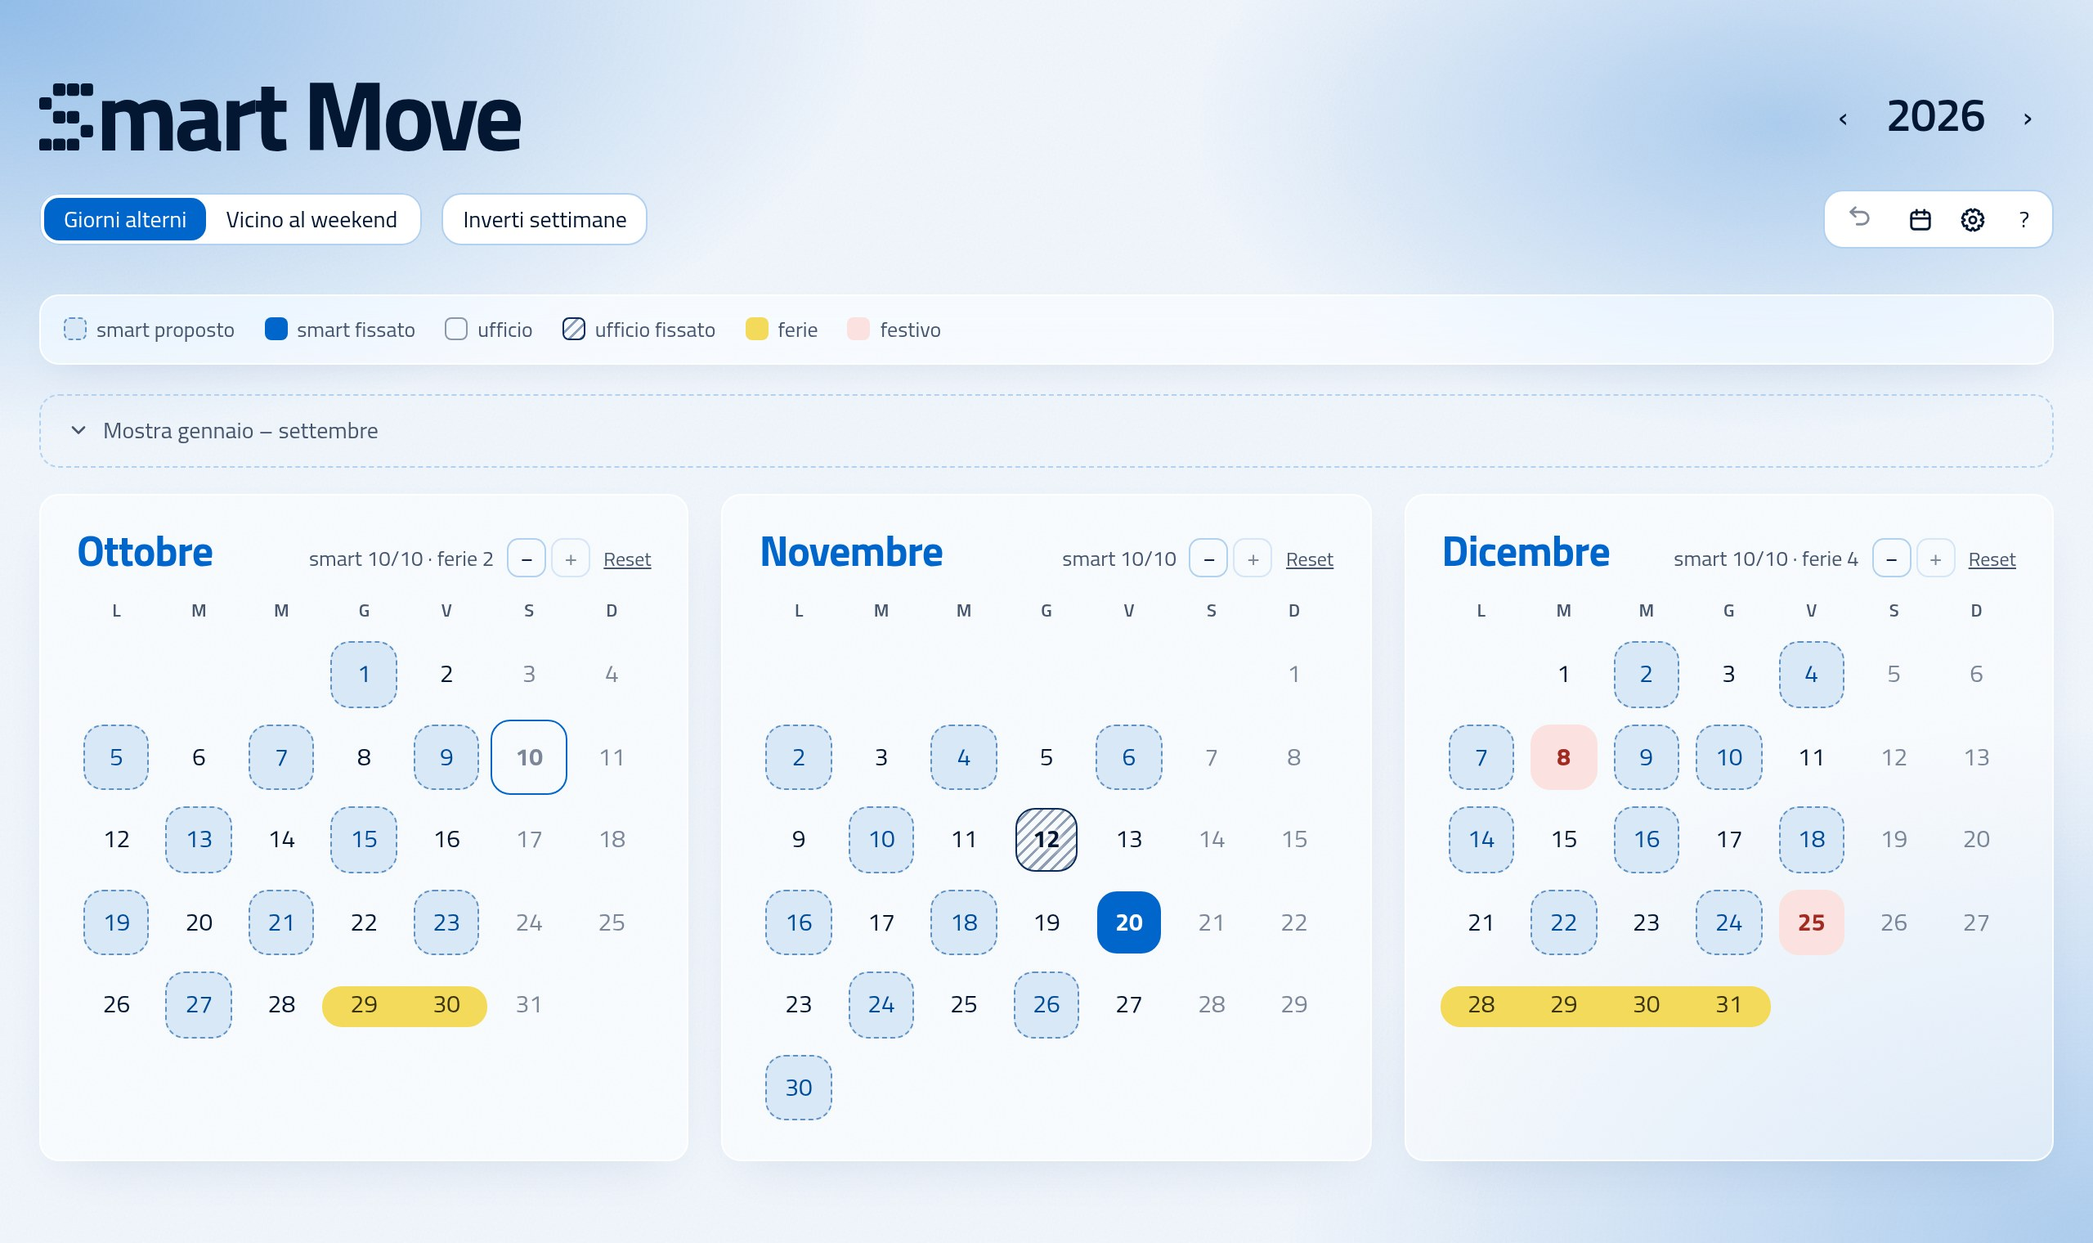
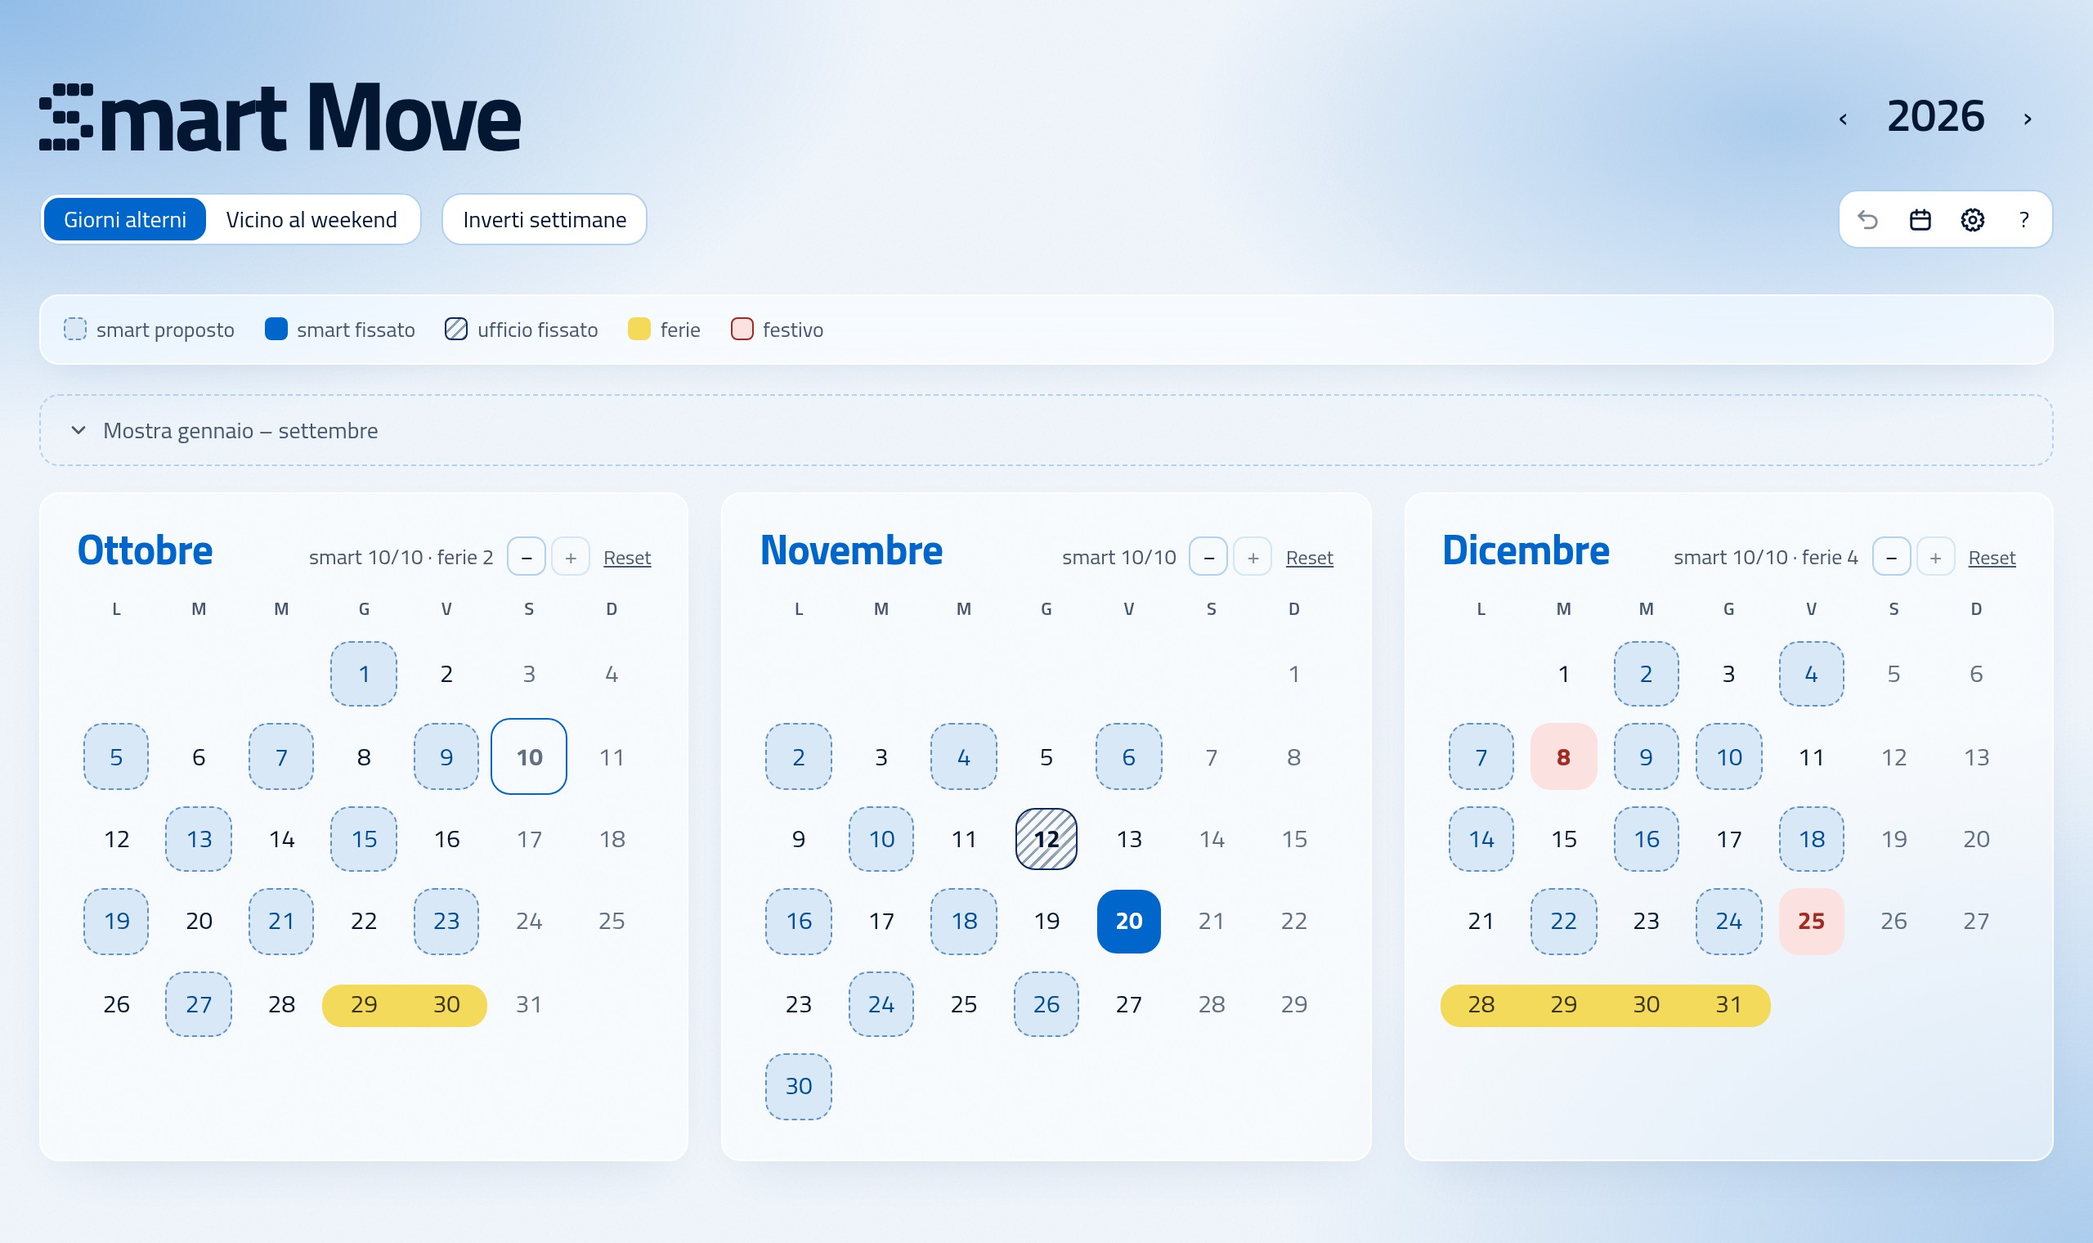
Revisione dell'interfaccia: titolo su una riga, tastiera nella griglia, finestre e legenda
- Telefono: barra a tre colonne, il titolo non va più a capo da 360px; campi a 16px (niente zoom su iPhone)
- Pulsanti finali delle finestre sempre visibili (sticky); vetro chiaro delle finestre pieno
- Una fermata di Tab per mese, frecce tra i giorni (saltano i festivi); nuova voce nella guida
- Contrasti: numeri del weekend, quadratino del festivo in legenda, mesi passati su touch
- "Reset" del mese alto 24px; "ufficio" tolto dalla legenda (giorni senza segno, spiegato nella guida);
  "automatico" nel menu con casella tratteggiata vuota
- Screenshot del README rifatti (italiano e inglese)

diff --git a/style.css b/style.css
@@ -27,7 +27,7 @@
   --warn: light-dark(#8a5a00, #e0b050); --over: light-dark(#d7261b, #ff6b5e);
   /* Vetro: fondo semitrasparente (mesi, legenda, finestre), bordo chiaro "di luce", aloni blu dello sfondo */
   --glass: light-dark(rgb(255 255 255 / .55), rgb(3 23 51 / .5));
-  --glass-strong: light-dark(rgb(255 255 255 / .92), rgb(3 23 51 / .8)); /* chiaro: a .8 sopra lo sfondo scurito delle finestre diventava grigio */
+  --glass-strong: light-dark(#fff, rgb(3 23 51 / .8)); /* chiaro pieno: trasparente sopra lo sfondo scurito diventava grigio, e la barra dei pulsanti in fondo si vedeva come una striscia */
   --glass-edge: light-dark(rgb(255 255 255 / .85), rgb(178 209 240 / .14));
   --glow-a: light-dark(rgb(0 102 204 / .4), rgb(0 102 204 / .48));
   --glow-b: light-dark(rgb(102 163 224 / .5), rgb(102 163 224 / .22));
@@ -116,14 +116,15 @@ header button:disabled:hover { border-color: var(--line); }
 .tools button:hover { border-color: transparent; background: var(--bg); }
 .tools button:disabled:hover { border-color: transparent; background: none; }
 
-/* Telefono: titolo e anno; schema a tutta larghezza; sotto "inverti settimane" e le icone */
+/* Telefono: titolo e anno; schema a tutta larghezza; sotto "inverti settimane" e le icone.
+   Tre colonne: la barra delle icone (più larga dell'anno) prende le ultime due, così non toglie spazio al titolo */
 @media (max-width: 640px) {
-  header { grid-template-columns: 1fr auto; gap: 12px 8px; grid-template-areas: "title year" "seg seg" "flip tools"; }
+  header { grid-template-columns: 1fr auto auto; gap: 12px 4px; /* 4px: a 360px il titolo ci sta di poco */ grid-template-areas: "title title year" "seg seg seg" "flip tools tools"; }
   #year { font-size: 24px; }
 }
 /* Schermi strettissimi (iPhone SE vecchio): l'anno scende sotto il titolo */
 @media (max-width: 359px) {
-  header { grid-template-areas: "title title" "year year" "seg seg" "flip tools"; }
+  header { grid-template-areas: "title title title" "year year year" "seg seg seg" "flip tools tools"; }
   .yearnav { justify-self: start; }
 }
 .help { color: var(--muted); margin: 0 0 12px; max-width: 75ch; }
@@ -141,6 +142,10 @@ body > .legend { position: sticky; top: 10px; z-index: 1; padding: 10px 14px; ma
 @media (max-width: 640px) { body > .legend { font-size: 12px; gap: 4px 12px; } }
 /* Il quadratino usa gli stessi segni dei giorni (variabili --fill/--edge definite per ogni stato, più sotto).
    Raggio ridotto in proporzione: con --r pieno su 14px diventava un cerchio, non la casella che rappresenta */
+/* Legenda: il festivo ha il bordo del suo numero rosso */
+.legend i.holiday { --edge: var(--holiday-text); }
+/* "automatico" nel menu: casella tratteggiata vuota, decide la pagina */
+#menu [data-set="auto"] i { --edge: var(--muted); --dash: dashed; }
 .legend i, #menu i { display: inline-block; width: 14px; height: 14px; border-radius: calc(var(--r) / 3); vertical-align: -2px; margin-right: 6px;
                     background: var(--fill, none); border: 1px var(--dash, solid) var(--edge, transparent); }
 
@@ -172,6 +177,8 @@ button:active { transform: scale(.97); }
 .month.past { background: color-mix(in srgb, var(--past) 55%, transparent); }
 .month.past > * { opacity: .6; filter: saturate(.35); transition: opacity .15s; }
 .month.past:hover > *, .month.past:focus-within > * { opacity: 1; }
+/* Su touch non c'è il passaggio del mouse: niente velo, restano il fondo più scuro e i colori spenti */
+@media (hover: none) { .month.past > * { opacity: 1; } }
 /* Il mese corrente apre sempre una riga nuova: con i passati aperti nessuno gli sta accanto */
 #current { grid-column-start: 1; }
 /* Pulsante dei mesi passati: striscia tratteggiata e tenue, come uno smart solo proposto
@@ -202,7 +209,7 @@ button:active { transform: scale(.97); }
 .step button:hover { border-color: var(--muted); }
 /* Al limite (0 o quota normale) il pulsante resta raggiungibile da tastiera ma appare spento */
 .step button[aria-disabled="true"] { opacity: .5; cursor: default; }
-.reset { font: inherit; font-size: 12px; border: 0; background: none; color: var(--muted); cursor: pointer; text-decoration: underline; padding: 0; }
+.reset { font: inherit; font-size: 12px; border: 0; background: none; color: var(--muted); cursor: pointer; text-decoration: underline; padding: 3px 0; margin: -3px 0; } /* alto 24px, stesso posto nel testo */
 .reset:hover { color: var(--text); }
 /* Su telefono tutto ciò che si tocca è alto almeno 40–44px, la misura comoda per il dito
    (barra in alto, −/+ e reset dei mesi, menu del giorno, finestre) */
@@ -244,8 +251,8 @@ button.d:hover { background: color-mix(in srgb, var(--print) 10%, transparent); 
    nome di stato usato nel JavaScript (vedi planMonth in js/plan.js).
    Ogni stato imposta solo variabili: --fill (fondo), --edge/--dash (bordo), --fg (numero);
    le usano le caselle, la legenda e il fumetto. */
-.auto { --edge: color-mix(in srgb, var(--muted) 60%, transparent); }   /* ufficio automatico: casella vuota */
-.weekend { --fg: color-mix(in srgb, var(--muted) 70%, transparent); }  /* weekend: numero spento */
+/* .auto (ufficio automatico): nessun segno, solo il numero (e niente voce in legenda) */
+.weekend { --fg: color-mix(in srgb, var(--muted) 85%, transparent); }  /* 85%: almeno 4,5:1 anche nel tema chiaro */  /* weekend: numero spento */
 .holiday { --fill: var(--holiday); --fg: var(--holiday-text); font-weight: 700; }
 .smart-auto { --fill: var(--smart-auto); --edge: color-mix(in srgb, var(--smart-auto-text) 55%, transparent); --dash: dashed; --fg: var(--smart-auto-text); } /* a matita */
 .smart { --fill: var(--smart); --fg: var(--smart-text); font-weight: 700; }                     /* timbro */
@@ -254,8 +261,6 @@ button.d:hover { background: color-mix(in srgb, var(--print) 10%, transparent); 
 /* Alone del colore del mese attorno al numero: le righe oblique non lo attraversano più */
 .d.office { text-shadow: 0 0 2px var(--card), 0 0 4px var(--card), 0 0 6px var(--card); }
 .ferie { --fill: var(--ferie); --fg: var(--ferie-text); }                                       /* evidenziatore */
-/* Nelle caselle l'ufficio automatico è solo il numero (il bordo resta nella legenda) */
-.d.auto { --edge: transparent; }
 /* Timbri (smart e ufficio fissati): 1px più piccoli degli altri segni */
 .d.smart::before, .d.office::before { inset: 5px; }
 /* Evidenziatore: striscia bassa che sborda nelle caselle vicine, così più giorni di ferie di fila fanno una riga unica */
@@ -324,6 +329,9 @@ dialog li { margin-bottom: 8px; }
 dialog li::marker { color: var(--muted); }
 dialog .legend { margin: 0 0 16px; }
 dialog form { text-align: right; }
+/* Pulsanti in fondo alle finestre: se il contenuto scorre restano incollati in basso (-28px = margine interno della finestra) */
+dialog > form:last-child, #onboard .nav { position: sticky; bottom: -28px; margin: 0 -28px -28px; padding: 12px 28px 28px;
+  background: var(--glass-strong); backdrop-filter: blur(18px); -webkit-backdrop-filter: blur(18px); }
 /* Pulsante principale: pieno, blu */
 dialog form button { font: inherit; font-weight: 600; padding: 8px 18px; border: 0; border-radius: var(--r);
                      background: var(--btn); color: var(--btn-text); cursor: pointer; }
@@ -367,6 +375,8 @@ dialog form button:hover { opacity: .88; }
 .range { display: flex; flex-wrap: wrap; align-items: end; gap: 10px; margin-bottom: 8px; }
 .range label { display: flex; flex-direction: column; font-size: 12px; }
 .range input, .range select { font: inherit; padding: 5px 8px; border: 1px solid var(--line); border-radius: var(--r); background: var(--bg); color: var(--text); }
+/* Sotto i 16px Safari su iPhone ingrandisce la pagina quando tocchi il campo */
+@media (max-width: 640px) { .range input, .range select { font-size: 16px; } }
 .range button { font: inherit; padding: 6px 14px; border: 1px solid var(--line); border-radius: var(--r);
                 background: var(--card); color: var(--text); cursor: pointer; }
 .range button:hover { border-color: var(--muted); }

diff --git a/js/app.js b/js/app.js
@@ -176,7 +176,7 @@ function render(picked) {
           // aria-label: "9 ottobre, smart proposto", per chi usa un lettore di schermo
           const name = `${L.day(x.d, mName)}, ${L.states[x.state]}${x.over ? L.over : ''}`;
           return x.state === 'holiday' ? `<span class="${c}" title="${L.states.holiday}">${x.d}</span>`
-            : `<button class="${c}" data-key="${x.key}" data-state="${x.state}" aria-label="${name}">${x.d}</button>`;
+            : `<button class="${c}" data-key="${x.key}" data-state="${x.state}" aria-label="${name}" tabindex="-1">${x.d}</button>`;
         }).join('')
       + '</div></div>';
   }
@@ -187,6 +187,9 @@ function render(picked) {
   grid.innerHTML = html;
   let wave = 0; // passi dell'onda più lunga: i mesi la fanno in parallelo, quindi basta un pop per passo
   grid.querySelectorAll('.days').forEach(ds => {
+    // Un solo giorno per mese raggiungibile col Tab (gli altri con le frecce, vedi onDayKey):
+    // l'ultimo usato, se no oggi, se no il primo del mese
+    (ds.querySelector(`[data-key="${focusKey}"]`) || ds.querySelector('button.today') || ds.querySelector('[data-key]')).tabIndex = 0;
     // --i: ordine tra i giorni del mese che ricevono un segno (non quelli tornati in ufficio, che non hanno niente da mostrare)
     let i = 0;
     ds.querySelectorAll('[data-key]').forEach(b => {
@@ -268,13 +271,31 @@ const onDayClick = e => {
   // (#onboard sta prima di #grid), così il focus resta dentro la finestra.
   document.querySelector(t.dataset.step ? `[data-step="${t.dataset.step}"]` : `[data-reset="${t.dataset.reset}"]`)?.focus();
 };
+// Frecce sui giorni: ←/→ un giorno, ↑/↓ una settimana, anche passando al mese vicino.
+// I festivi non sono pulsanti: si saltano. Si cerca dentro il contenitore (griglia o anteprima dell'onboarding).
+let focusKey; // ultimo giorno usato: è la fermata di Tab del suo mese
+const onDayKey = e => {
+  const step = { ArrowLeft: -1, ArrowRight: 1, ArrowUp: -7, ArrowDown: 7 }[e.key];
+  if (!step || !e.target.dataset.key) return;
+  e.preventDefault();
+  const d = new Date(e.target.dataset.key);
+  for (let i = 0; i < 10; i++) { // 10 passi: più festivi di fila non ce ne sono; fuori dall'anno mostrato ci si ferma
+    d.setUTCDate(d.getUTCDate() + step);
+    const b = e.currentTarget.querySelector(`[data-key="${d.toISOString().slice(0, 10)}"]`);
+    if (!b) continue;
+    if (!b.offsetParent) return; // mese passato nascosto
+    b.closest('.days').querySelector('[tabindex="0"]').tabIndex = -1;
+    b.tabIndex = 0; b.focus(); focusKey = b.dataset.key;
+    return;
+  }
+};
 // Menu degli stati: si apre sopra il giorno b, con lo stato attuale in grassetto
 const menu = document.getElementById('menu');
 let menuKey; // giorno a cui si riferisce il menu aperto
 const hideMenu = () => menu.matches(':popover-open') && menu.hidePopover();
 const openMenu = b => {
   hideMenu();
-  menuKey = b.dataset.key;
+  menuKey = focusKey = b.dataset.key;
   const cur = ['smart-auto', 'weekend'].includes(b.dataset.state) ? 'auto' : b.dataset.state;
   menu.setAttribute('aria-label', b.getAttribute('aria-label'));
   menu.querySelectorAll('[data-set]').forEach(x => x.toggleAttribute('aria-current', x.dataset.set === cur));
@@ -324,6 +345,8 @@ menu.addEventListener('beforetoggle', e => {
 addEventListener('scroll', hideMenu, { passive: true, capture: true });
 document.getElementById('grid').addEventListener('click', onDayClick);
 document.getElementById('preview').addEventListener('click', onDayClick);
+document.getElementById('grid').addEventListener('keydown', onDayKey);
+document.getElementById('preview').addEventListener('keydown', onDayKey);
 // Undo: rimette lo stato prima dell'ultima modifica. Lo snapshot viene da data(), quindi non serve ricontrollarlo.
 // save() trova lo stesso testo di last e non impila niente.
 function undo() {

diff --git a/index.html b/index.html
@@ -78,7 +78,7 @@
     <li data-i18n="t1">Ogni mese hai <b><span data-q="month">10</span> giorni di smart</b>, massimo <b><span data-q="week">3</span> a settimana</b>: la pagina li propone in automatico,<!-- il testo giusto lo mostra render() in base al menu Smart -->
       <span data-mode="alterni">alternando settimane <b>lun‑mer‑ven</b> e <b>mar‑gio</b>, senza smart in giorni consecutivi.</span>
       <span data-mode="weekend">prima su <b>lunedì e venerdì</b>, poi attaccati a festivi, ferie e altri smart, per stare più giorni di fila lontano dall'ufficio.</span></li>
-    <li data-i18n="t2"><b>Clicca un giorno</b> e scegli dal menu: <b>smart</b>, <b>ufficio</b>, <b>ferie</b> o <b>automatico</b> (decide la pagina). Lavori nel weekend? Anche sabato e domenica si possono segnare.</li>
+    <li data-i18n="t2"><b>Clicca un giorno</b> e scegli dal menu: <b>smart</b>, <b>ufficio</b>, <b>ferie</b> o <b>automatico</b> (decide la pagina). I giorni senza segno sono in ufficio. Lavori nel weekend? Anche sabato e domenica si possono segnare.</li>
     <li data-i18n="t3">Gli smart rimasti nel mese si <b>ridistribuiscono da soli</b> attorno a ferie e giorni fissati.</li>
     <li data-i18n="t4">Il contatore di ogni mese ti dice quanti smart stai usando. Vuoi farne <b>meno</b>? Premi <b>−</b> accanto al contatore del mese; <b>+</b> li rimette.</li>
     <li data-i18n="t5">All'apertura vedi il mese corrente e i successivi; i <b>mesi passati</b> sono nascosti: li apri col pulsante sopra il calendario.</li>
@@ -89,6 +89,7 @@
     <li data-i18n="t9">Hai un <b>giorno fisso in ufficio</b> (es. la riunione del martedì)? Clicca uno di quei giorni e scegli <b>ufficio ogni martedì</b>:
       vale per tutto l'anno. Per un'eccezione, scegli un altro stato su quel singolo giorno.</li>
     <li data-i18n="t11">Sbagliato qualcosa? La <b>freccia</b> in alto (o <b>Ctrl+Z</b>) annulla l'ultima modifica.</li>
+    <li data-i18n="t12">Da tastiera: <b>Tab</b> passa da un mese all'altro, le <b>frecce</b> si spostano tra i giorni, <b>Invio</b> apre il menu.</li>
     <li data-i18n="t10" data-mode="alterni">Se l'alternanza è al contrario, premi <b>"Inverti settimane"</b>.</li>
   </ol>
   <p class="help" data-i18n="icsHelp">Vuoi gli smart nel tuo calendario? L'icona del <b>calendario</b> in alto scarica smart e ferie di un mese
@@ -212,7 +213,6 @@
 <div class="legend">
   <span data-i18n="lgSmartAuto"><i class="smart-auto"></i>smart proposto</span>
   <span data-i18n="lgSmart"><i class="smart"></i>smart fissato</span>
-  <span data-i18n="lgAuto"><i class="auto"></i>ufficio</span>
   <span data-i18n="lgOffice"><i class="office"></i>ufficio fissato</span>
   <span data-i18n="lgFerie"><i class="ferie"></i>ferie</span>
   <span data-i18n="lgHoliday"><i class="holiday"></i>festivo</span>
@@ -221,7 +221,7 @@
 <!-- Menu per scegliere lo stato del giorno cliccato (vedi openMenu in js/app.js).
      data-set = stato da mettere; "auto" = nessuna scelta manuale, decide il programma. -->
 <div id="menu" popover>
-  <button data-set="auto" data-i18n="mAuto"><i class="smart-auto"></i>automatico</button>
+  <button data-set="auto" data-i18n="mAuto"><i></i>automatico</button>
   <button data-set="smart" data-i18n="mSmart"><i class="smart"></i>smart</button>
   <button data-set="office" data-i18n="mOffice"><i class="office"></i>ufficio</button>
   <button data-set="ferie" data-i18n="mFerie"><i class="ferie"></i>ferie</button>

diff --git a/js/i18n.js b/js/i18n.js
@@ -25,7 +25,7 @@ export const EN = {
   t1: `Every month you get <b><span data-q="month">10</span> WFH days</b>, at most <b><span data-q="week">3</span> a week</b>: the page suggests them automatically,
       <span data-mode="alterni">alternating <b>Mon‑Wed‑Fri</b> and <b>Tue‑Thu</b> weeks, never on consecutive days.</span>
       <span data-mode="weekend">first on <b>Mondays and Fridays</b>, then next to holidays, time off and other WFH days, for longer stretches away from the office.</span>`,
-  t2: '<b>Click a day</b> and pick from the menu: <b>WFH</b>, <b>office</b>, <b>time off</b> or <b>automatic</b> (the page decides). Working weekends? Saturdays and Sundays can be marked too.',
+  t2: '<b>Click a day</b> and pick from the menu: <b>WFH</b>, <b>office</b>, <b>time off</b> or <b>automatic</b> (the page decides). Days with no mark are office days. Working weekends? Saturdays and Sundays can be marked too.',
   t3: "The month's remaining WFH days <b>rearrange themselves</b> around time off and fixed days.",
   t4: "Each month's counter shows how many WFH days you're using. Want <b>fewer</b>? Press <b>−</b> next to the month's counter; <b>+</b> brings them back.",
   t5: 'When you open the page you see the current month and the next ones; <b>past months</b> are hidden: show them with the button above the calendar.',
@@ -36,6 +36,7 @@ export const EN = {
   t9: `Have a <b>fixed office day</b> (e.g. the Tuesday meeting)? Click one of those days and choose <b>office every Tuesday</b>:
       it applies all year. For an exception, pick another state on that single day.`,
   t11: 'Made a mistake? The <b>arrow</b> at the top (or <b>Ctrl+Z</b>) undoes the last change.',
+  t12: 'With the keyboard: <b>Tab</b> moves from month to month, the <b>arrows</b> move between days, <b>Enter</b> opens the menu.',
   t10: 'If the alternation is the wrong way round, press <b>"Swap weeks"</b>.',
   // Impostazioni
   setHead: 'Settings',
@@ -111,11 +112,10 @@ export const EN = {
   no: 'No',
   lgSmartAuto: '<i class="smart-auto"></i>suggested WFH',
   lgSmart: '<i class="smart"></i>fixed WFH',
-  lgAuto: '<i class="auto"></i>office',
   lgOffice: '<i class="office"></i>fixed office',
   lgFerie: '<i class="ferie"></i>time off',
   lgHoliday: '<i class="holiday"></i>holiday',
-  mAuto: '<i class="smart-auto"></i>automatic',
+  mAuto: '<i></i>automatic',
   mSmart: '<i class="smart"></i>WFH',
   mOffice: '<i class="office"></i>office',
   mFerie: '<i class="ferie"></i>time off',
